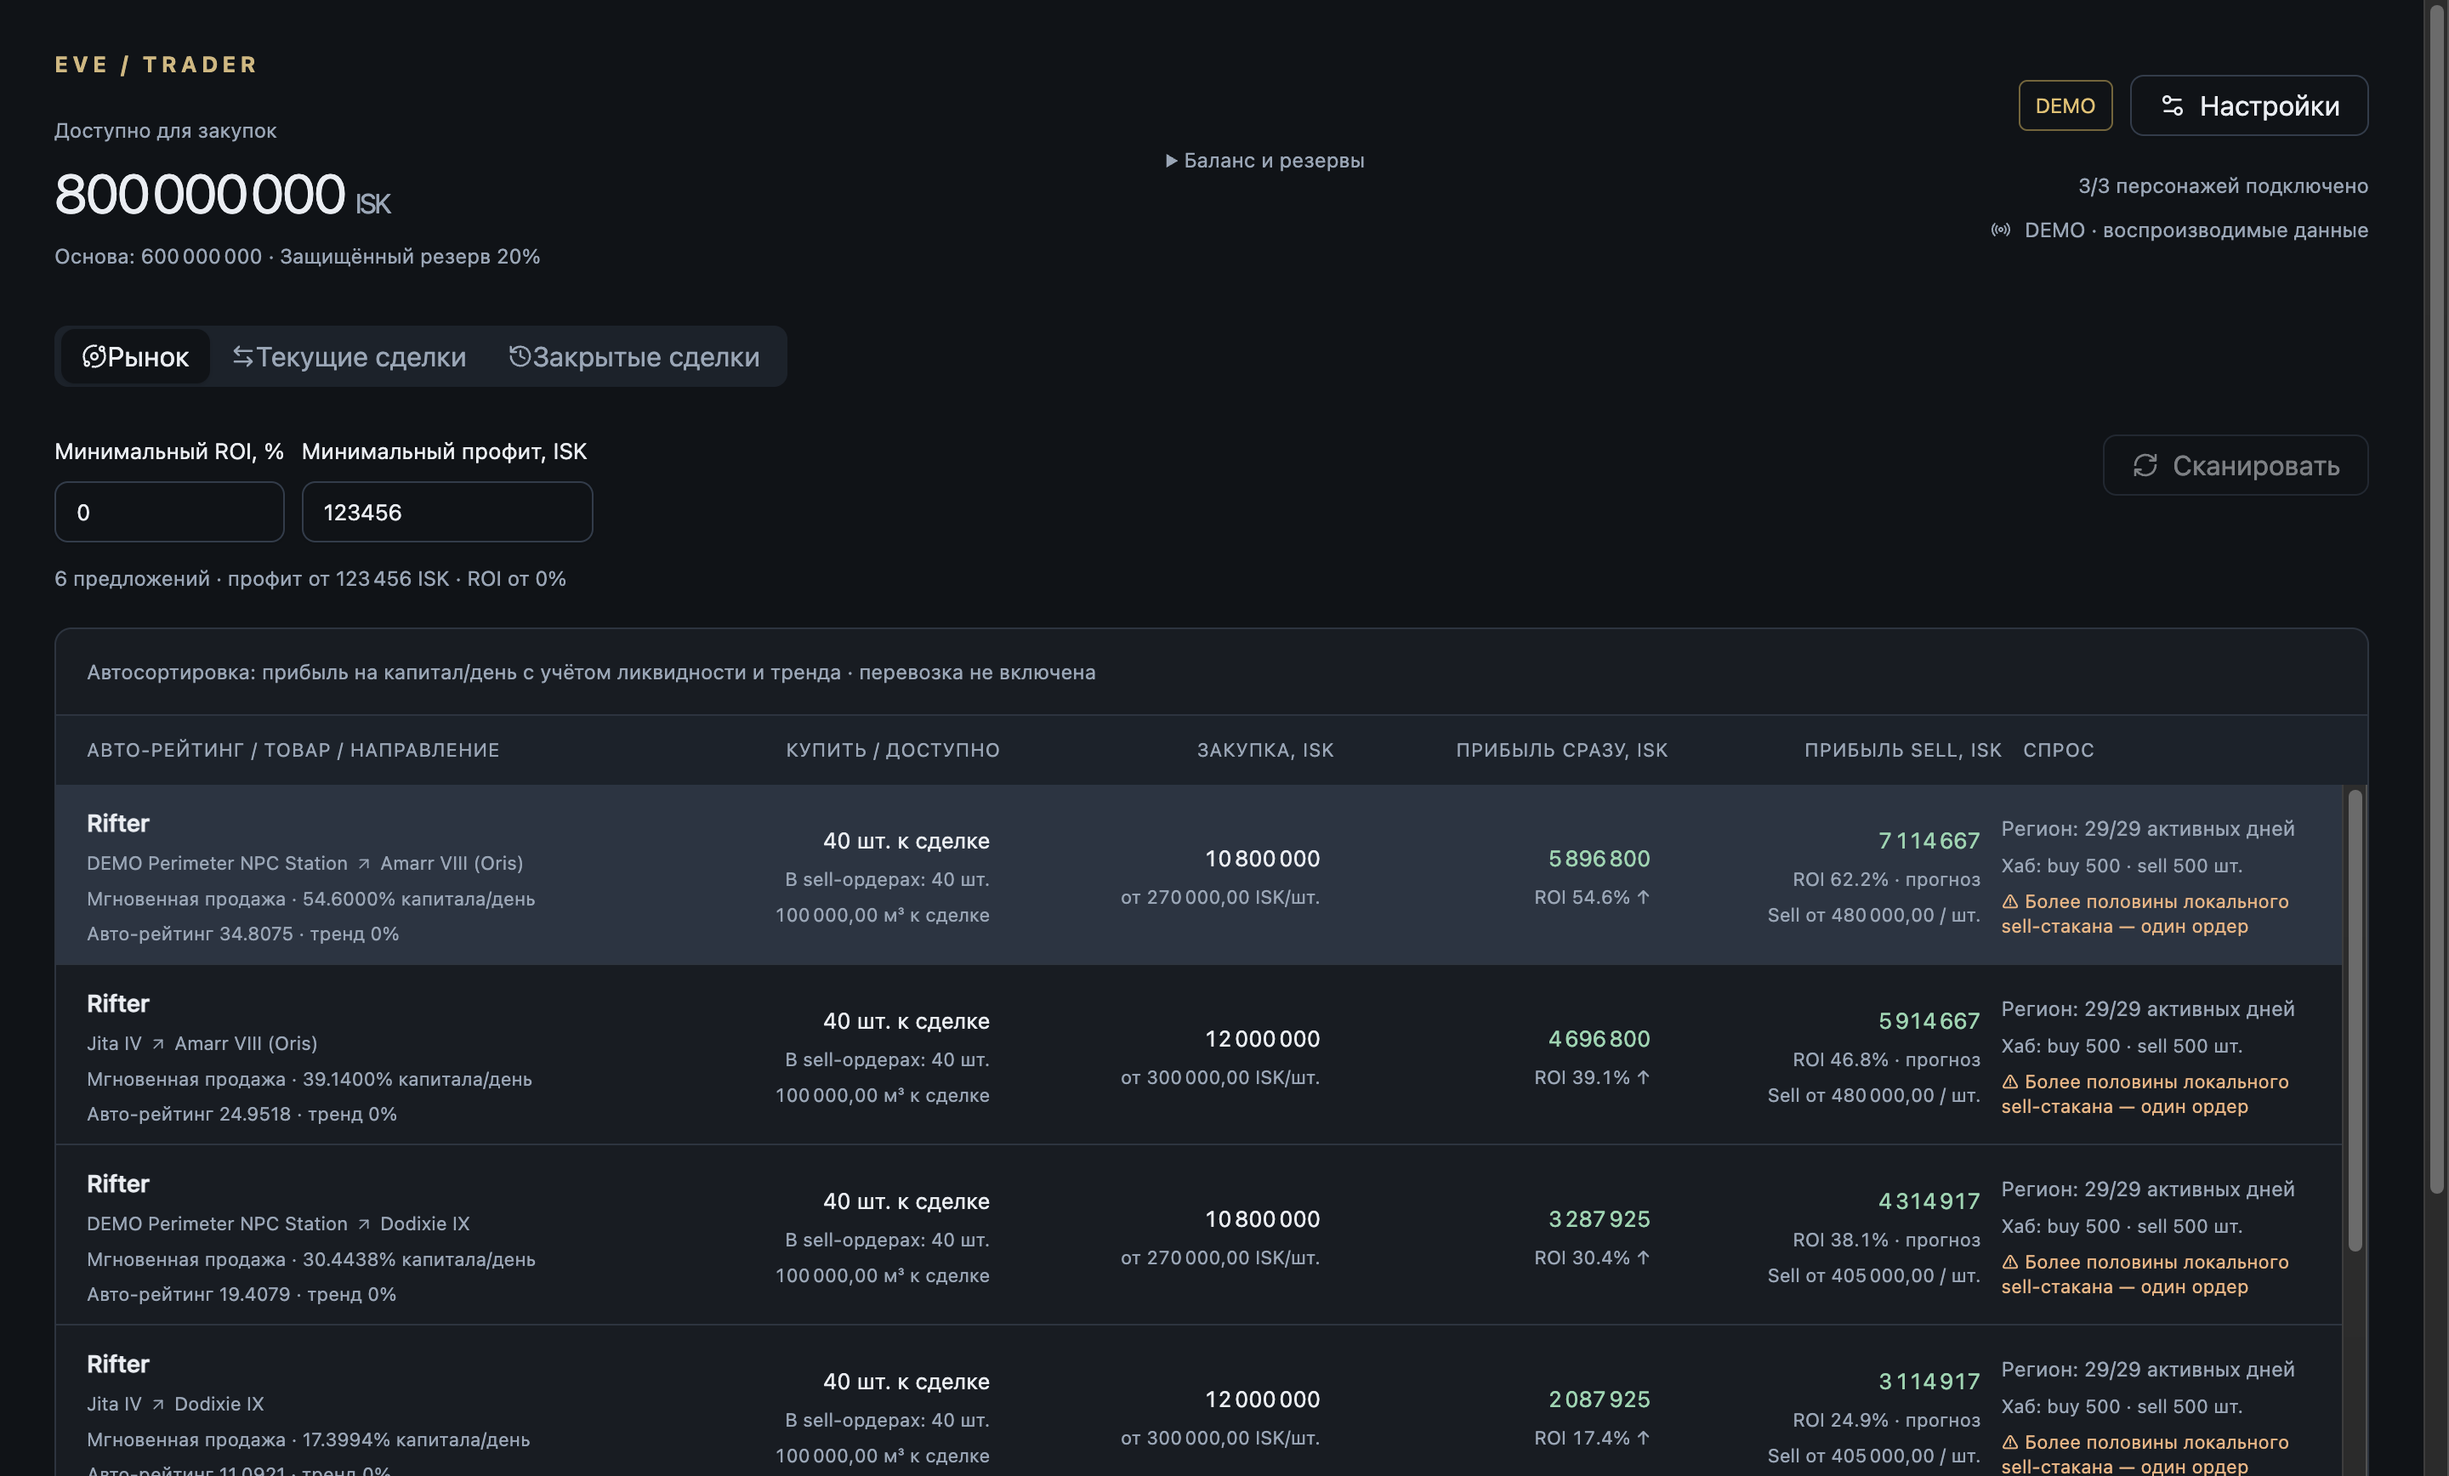
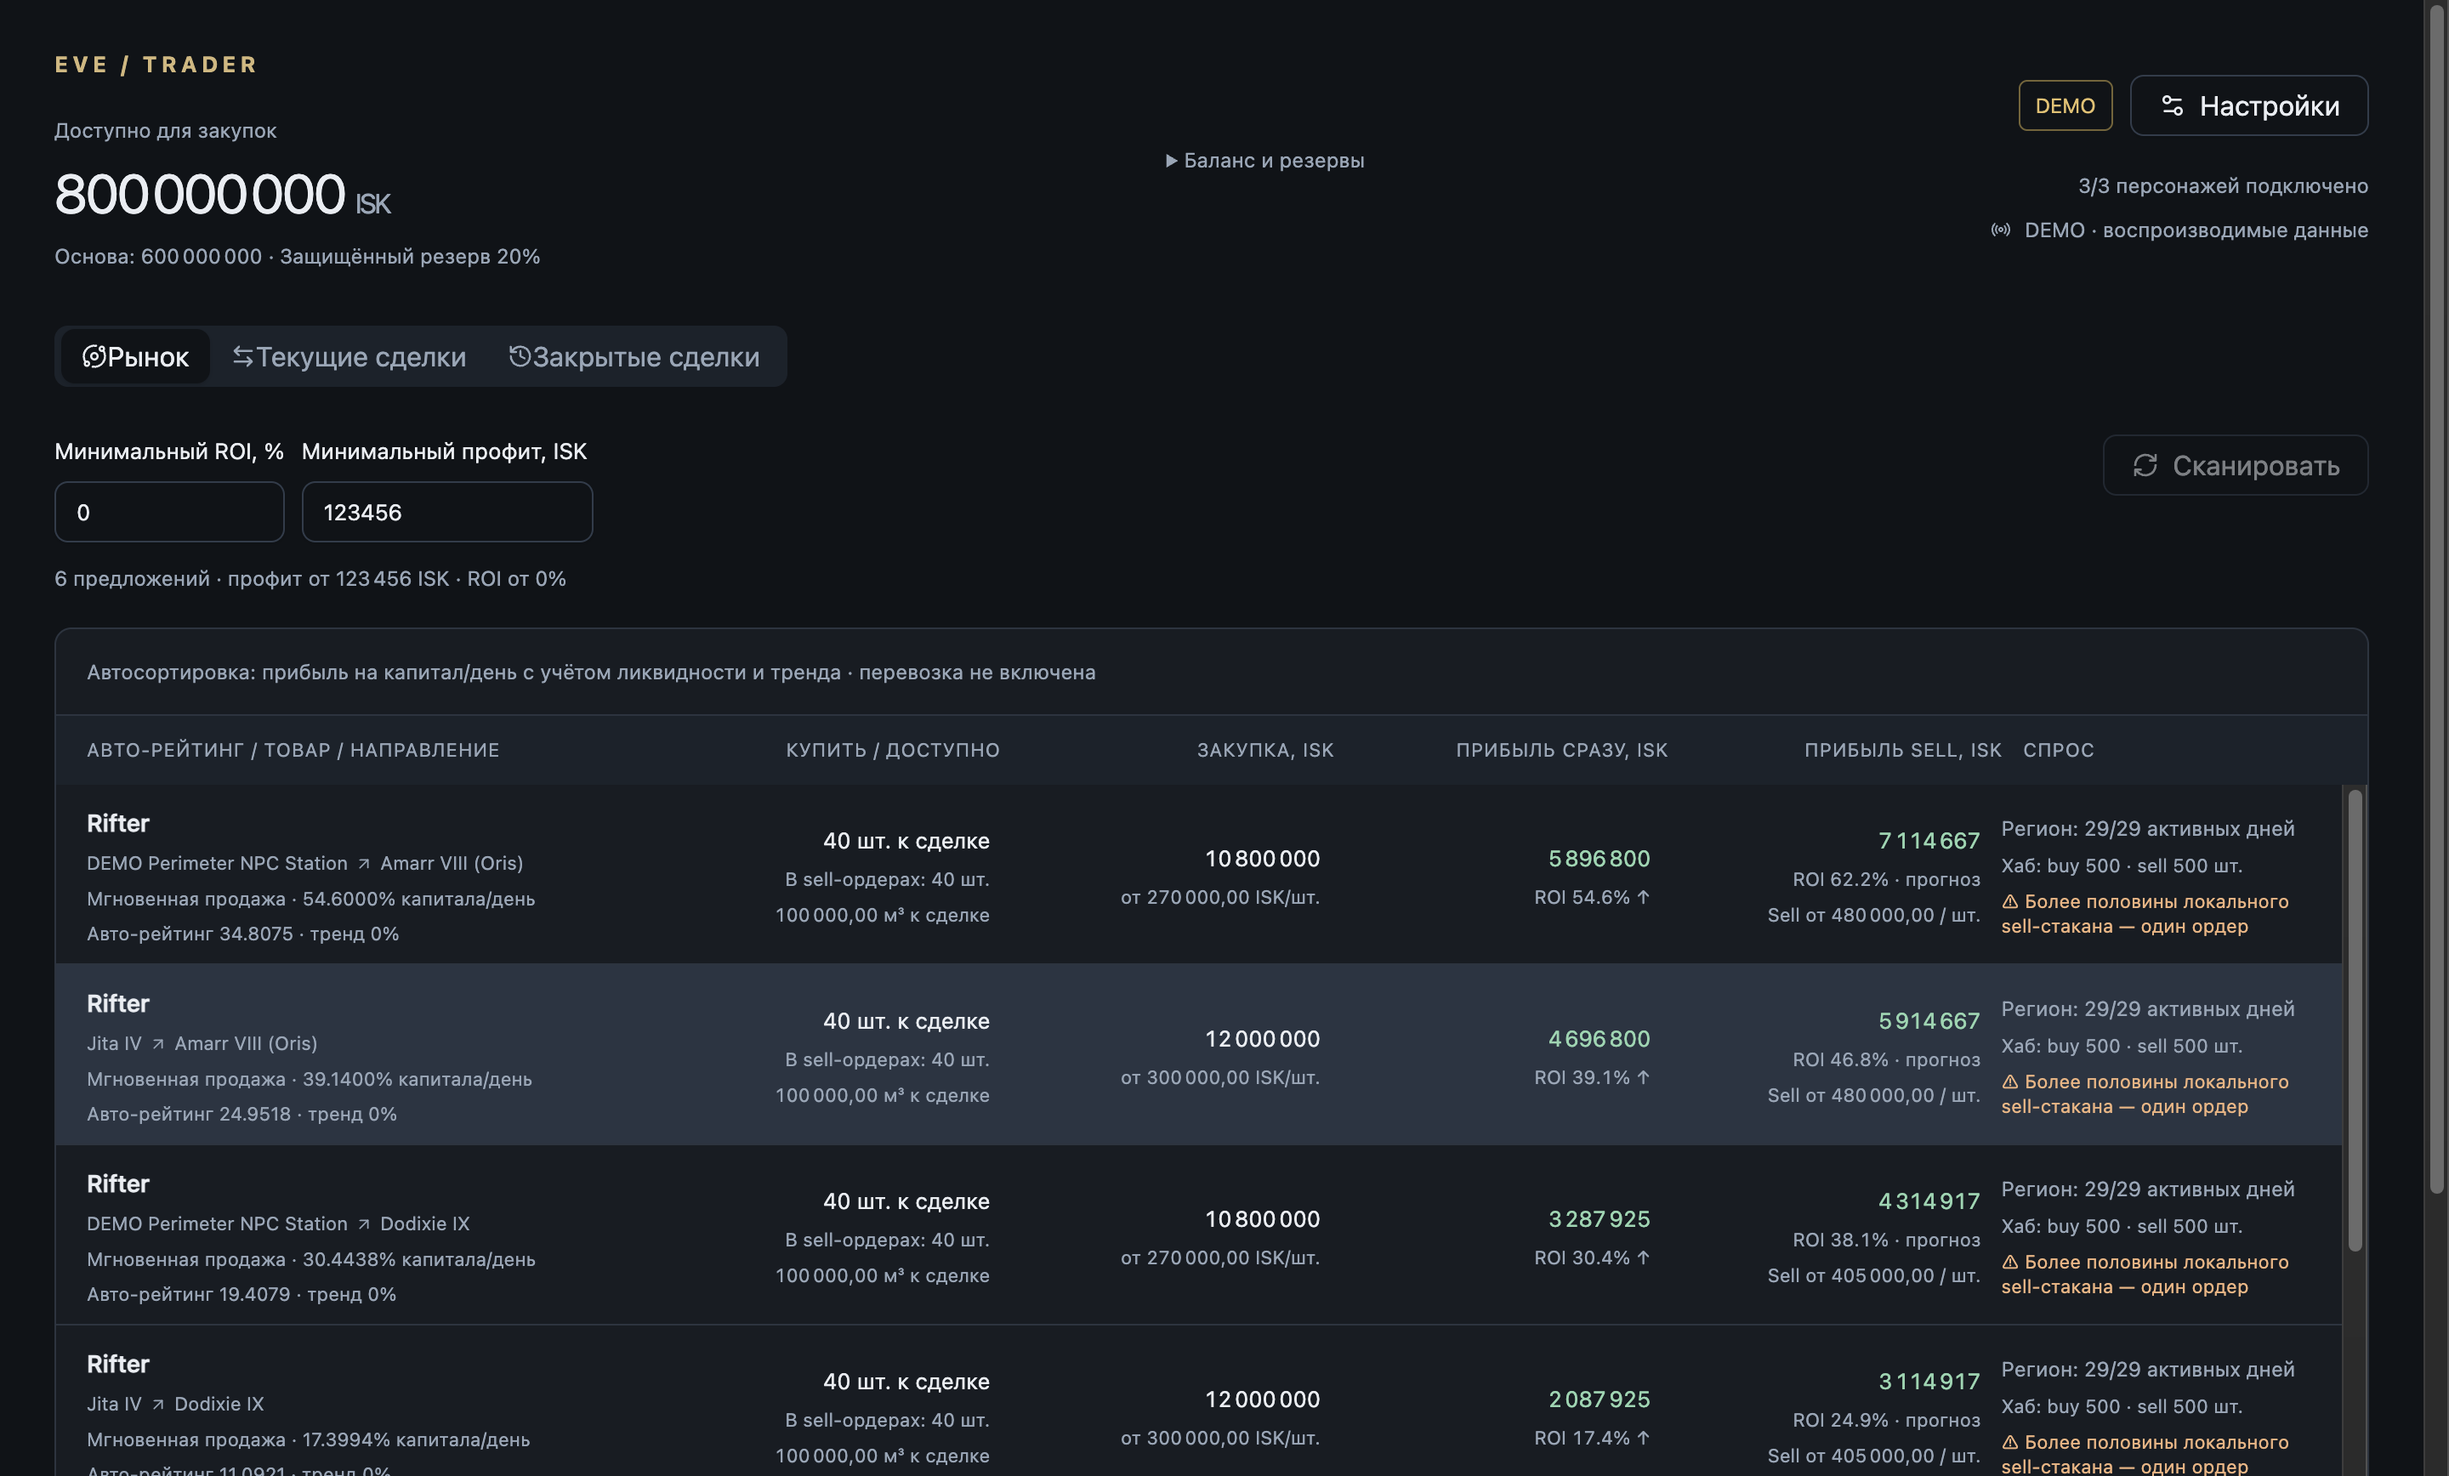
Migrate persisted market catalog to new hubs

Changed region(s): [[0.0, 0.5288, 0.9688, 0.7776]]

diff --git a/engine/service.ts b/engine/service.ts
@@ -13,6 +13,7 @@ import {
 import { syncRegion, latestSnapshots } from "./market/snapshots";
 import { syncHistory } from "./history/history";
 import { excludedMarketTypeIds } from "./market/classification";
+import { CENTERS } from "./routes/graph";
 export class MarketService {
   readonly client = new EsiClient();
   readonly scheduler = new Scheduler();
@@ -24,18 +25,35 @@ export class MarketService {
     resources: string,
     readonly demo: boolean,
   ) {
-    this.data = readStatic(store);
-    if (!this.data && !demo) {
-      this.data = JSON.parse(
+    const persisted = readStatic(store);
+    this.data = persisted;
+    if (!demo) {
+      const bundled = JSON.parse(
         readFileSync(join(resources, "static-data.json"), "utf8"),
       ) as StaticData;
-      importStatic(store, this.data);
+      const hasNewerBundle =
+        Number.isFinite(Number(bundled.version)) &&
+        Number.isFinite(Number(persisted?.version)) &&
+        Number(bundled.version) > Number(persisted?.version);
+      if (!persisted || hasNewerBundle) this.data = bundled;
+      else if (
+        CENTERS.every((center) =>
+          persisted.systems.some((s) => s.id === center),
+        )
+      ) {
+        // A release can change the selected hubs without changing the SDE build.
+        // Backfill their bundled NPC stations into an older persisted catalogue.
+        const stations = new Map(persisted.stations.map((s) => [s.id, s]));
+        for (const station of bundled.stations)
+          if (!stations.has(station.id)) stations.set(station.id, station);
+        this.data = { ...persisted, stations: [...stations.values()] };
+      } else this.data = persisted;
     }
     if (this.data && !demo) {
       const narrowed = withSearchZone(this.data);
       if (
         JSON.stringify(narrowed.zone) !== JSON.stringify(this.data.zone) ||
-        narrowed.stations.length !== this.data.stations.length
+        JSON.stringify(narrowed.stations) !== JSON.stringify(this.data.stations)
       ) {
         importStatic(store, narrowed);
       }

diff --git a/tests/integration/static.test.ts b/tests/integration/static.test.ts
@@ -61,7 +61,7 @@ it("existing five-jump cache is narrowed on startup without deleting selected de
     ...data,
     zone: [...oldZone],
     stations: [
-      ...data.stations,
+      ...data.stations.filter((s) => s.systemId !== "30002510"),
       { ...data.stations[0], id: "999999999", systemId: outside },
     ],
   };

diff --git a/RELEASE_NOTES.md b/RELEASE_NOTES.md
@@ -1,9 +1,9 @@
-# EVE Trader 0.1.28 — Ренс в сканировании рынков
+# EVE Trader 0.1.29 — перенос Ренса в существующую базу
 
-Добавлен NPC-рынок Ренса (Heimatar) как четвёртый торговый хаб. Существующие рынки, региональная история и локальные сделки сохраняются; при первом запуске новой версии будет добавлен скан Heimatar. Индикатор сканирования больше не привязан к фиксированному числу хабов.
+Исправлен переход на новый справочник центров для уже установленного приложения. При запуске приложение дополняет сохранённый SDE недостающими станциями новых хабов из комплекта приложения, даже если номер сборки SDE не изменился. Это добавляет 8 станций Ренса и регион Heimatar к существующей базе, не удаляя сделки. Источник рынка виден как выбранные хабы без фиксированного числа.
 
-Хек в постоянный скан пока не добавлен: по live-срезу ESI он увеличит полную загрузку ордеров примерно на 17% поверх четырёх рынков приложения и добавит около 9 тысяч типов в фоновую очередь истории. Сначала оцениваем скорость и полезность Ренса.
+Также включён NPC-рынок Ренса (Heimatar) как четвёртый торговый хаб. Хек в постоянный скан пока не добавлен: по live-срезу ESI он увеличит полную загрузку ордеров примерно на 16% поверх четырёх рынков приложения и добавит около 9 тысяч типов в фоновую очередь истории. Сначала оцениваем скорость и полезность Ренса.
 
 Периметр: публичные региональные данные уже включают The Forge, однако они не дают основной стакан Upwell-структуры. Для просмотра такого стакана нужна отдельная авторизация ESI с `esi-markets.structure_markets.v1` и docking access персонажа к выбранной структуре; приложение пока не запрашивает этот scope.
 
-Проверка: `pnpm verify:all` — lint, typecheck, 12 наборов unit-тестов, integration и e2e; три e2e прошли, performance-сценарий пропущен из-за отсутствия базового набора. Упакованная macOS arm64 сборка запущена и проверена на сохранение настроек, трея и перезапуска. macOS-сборка подписана ad-hoc; Developer ID/notarization отсутствуют.
+Проверка: миграционный integration-тест воспроизводит старый SDE с тремя хабами и подтверждает автоматическое добавление Ренса при старте. `pnpm verify:all`: lint, typecheck, 40 unit, 34 integration и 3 e2e теста прошли; performance-сценарий пропущен из-за отсутствия базового набора. macOS packaged smoke и установка встроенного обновления проверяются при выпуске. macOS-сборка подписана ad-hoc; Developer ID/notarization отсутствуют.

diff --git a/docs/verification/stage-all.md b/docs/verification/stage-all.md
@@ -1,8 +1,8 @@
 # Этап all: автоматические проверки
 
-UTC: 2026-10-04T14:51:12.307Z
+UTC: 2026-10-04T15:06:08.784Z
 
-Commit: 8794520492af962faa4ba400b61580e40b6a2fb9; проверяется рабочее дерево.
+Commit: 656654802f7b70bf9fc1c08ab1d909abbc4c8186; проверяется рабочее дерево.
 
 ## pnpm lint
 
@@ -33,8 +33,8 @@ Exit code: 0; PASS
 
  Test Files  9 passed (9)
       Tests  40 passed (40)
-   Start at  21:51:14
-   Duration  189ms (transform 47%, import 36%, tests 14%, worker 3%)
+   Start at  22:06:11
+   Duration  213ms (transform 46%, import 38%, tests 12%, worker 3%)
 
 $ vitest run tests/unit
 
@@ -51,8 +51,8 @@ Exit code: 0; PASS
 
  Test Files  12 passed (12)
       Tests  34 passed (34)
-   Start at  21:51:15
-   Duration  2.28s (import 47%, tests 46%, transform 7%)
+   Start at  22:06:12
+   Duration  2.33s (import 52%, tests 41%, transform 7%)
 
 $ vitest run tests/integration
 
@@ -72,7 +72,7 @@ dist/renderer/index.html                   0.61 kB │ gzip:   0.38 kB
 dist/renderer/assets/index-CPJ5PQp-.css   24.11 kB │ gzip:   5.55 kB
 dist/renderer/assets/index-FJvX4eq2.js   441.57 kB │ gzip: 139.71 kB
 
-✓ built in 177ms
+✓ built in 162ms
 $ node scripts/build.mjs
 
 ```
@@ -85,15 +85,15 @@ Exit code: 0; PASS
 
 Running 4 tests using 1 worker
 
-  ✓  1 tests/e2e/accounting.spec.ts:5:1 › stage 7: desktop selection, imported operations, review and explicit closing survives restart (1.7s)
-  ✓  2 tests/e2e/market.spec.ts:5:1 › stage 5: filters, quantity quote, basket and idempotent acceptance (842ms)
+  ✓  1 tests/e2e/accounting.spec.ts:5:1 › stage 7: desktop selection, imported operations, review and explicit closing survives restart (1.9s)
+  ✓  2 tests/e2e/market.spec.ts:5:1 › stage 5: filters, quantity quote, basket and idempotent acceptance (856ms)
   -  3 tests/e2e/performance.spec.ts:15:1 › stage 9: full saved regional dataset, local filter latency and renderer responsiveness
   ✓  4 tests/e2e/shell.spec.ts:5:1 › stage 1: three tabs, restricted preload, settings survive restart; 1280 and 1440 (1.1s)
 
   1 skipped
-  3 passed (4.2s)
+  3 passed (4.5s)
 $ playwright test
-(node:99861) Warning: The 'NO_COLOR' env is ignored due to the 'FORCE_COLOR' env being set.
+(node:8305) Warning: The 'NO_COLOR' env is ignored due to the 'FORCE_COLOR' env being set.
 (Use `node --trace-warnings ...` to show where the warning was created)
 
 ```
